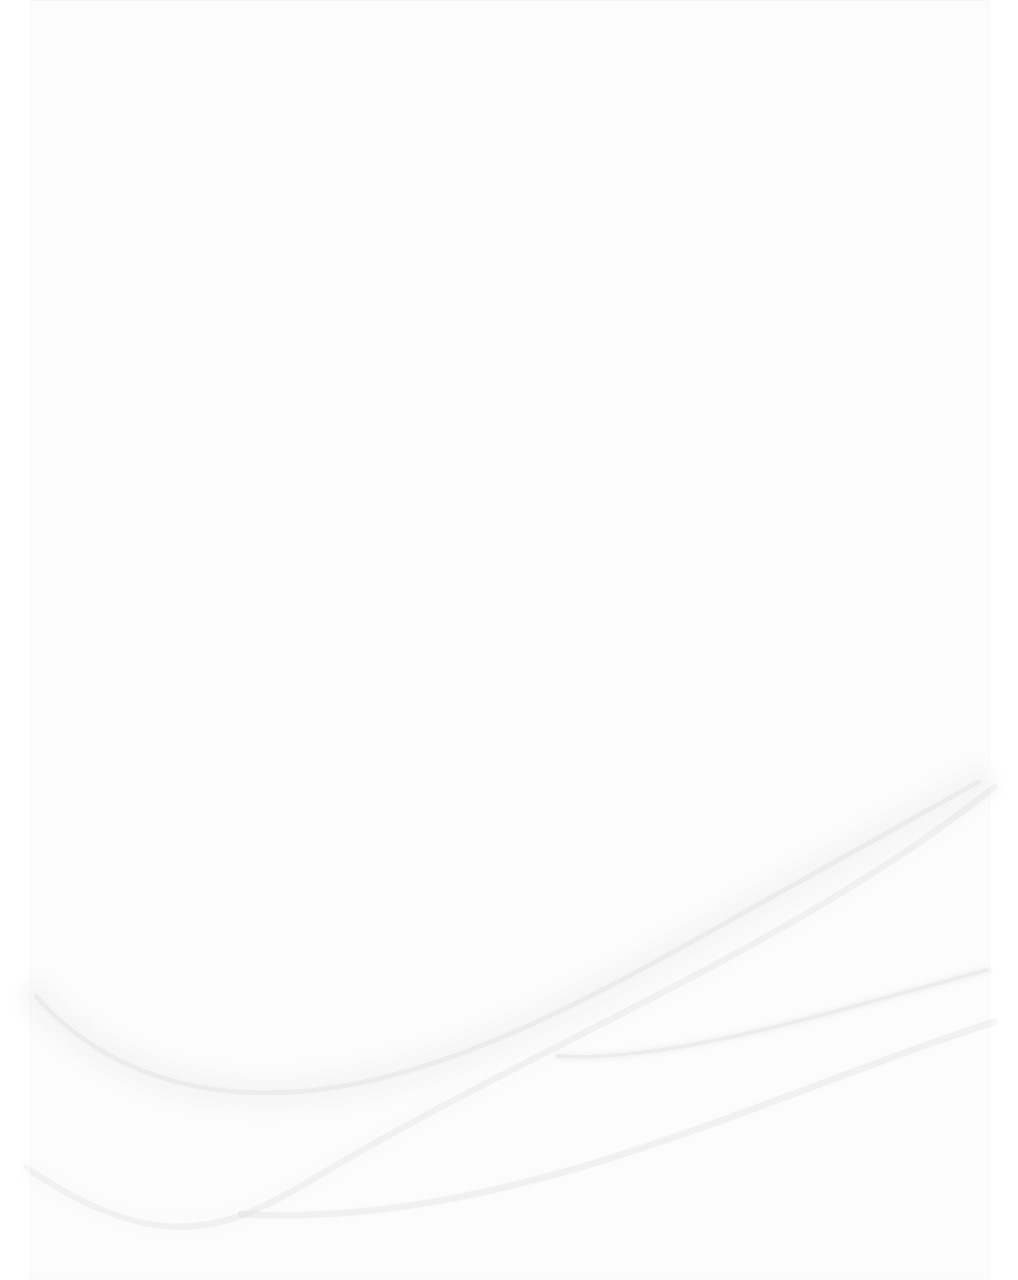
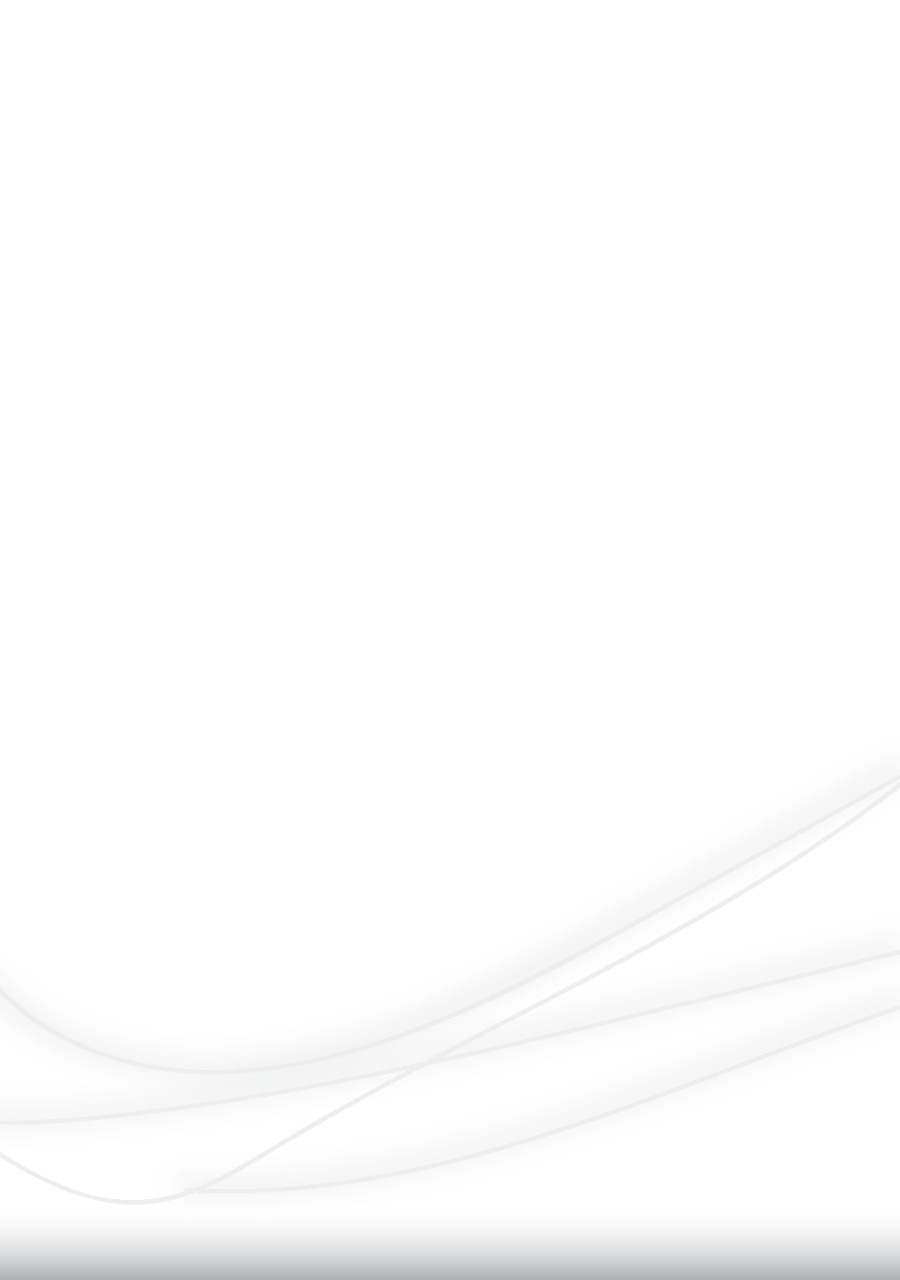
task completed

Changed region(s): [[0.0, 0.9688, 1.0, 1.0]]

diff --git a/components/Card.js b/components/Card.js
@@ -35,7 +35,7 @@ const Card = (props) => {
         <View style={styles.container_bottom_center}>
           <View style={styles.container_bottom_center_sub}>
             <View>
-              <Entypo name={"calendar"} color={'#045FB4'} size={20} />
+              <Entypo name={"calendar"} color={COLORS.cardiconcolor} size={20} />
             </View>
             <View style={styles.container_bottom_center_sub2}>
               <Text style={styles.info_title}>Date purchased</Text>
@@ -44,7 +44,7 @@ const Card = (props) => {
           </View>
           <View style={styles.container_bottom_center_sub}>
             <View>
-              <Entypo name={"ticket"} color={'#045FB4'} size={20} />
+              <Entypo name={"ticket"} color={COLORS.cardiconcolor} size={20} />
             </View>
             <View style={styles.container_bottom_center_sub2}>
               <Text style={styles.info_title}>Ticket(s) bought</Text>
@@ -71,7 +71,7 @@ const styles = StyleSheet.create({
     width: SIZES.width * 0.90,
     borderRadius: 7,
     borderWidth: 1,
-    borderColor: '#efeded',
+    borderColor: COLORS.cardbordercolor,
     marginBottom: 10,
     justifyContent: "center", // main axis
     alignItems: "center", // cross axis
@@ -82,7 +82,7 @@ const styles = StyleSheet.create({
     borderTopRightRadius: 7,
     paddingBottom: 10,
     justifyContent: "center", // main axis
-    backgroundColor: '#F8FBEF',
+    backgroundColor: COLORS.cardtopbgcolor,
   },
   container_sub: {
     flexDirection: 'row',
@@ -91,22 +91,23 @@ const styles = StyleSheet.create({
     width: SIZES.width * 0.10, borderTopLeftRadius: 7,
   },
   container_top_right: {
-    width: SIZES.width * 0.149, borderTopRightRadius: 7, alignItems: 'flex-end',
+    width: SIZES.width * 0.149, borderTopRightRadius: 7, alignItems: 'flex-end', paddingRight: 1
   },
   container_top_right_circle: {
     borderRadius: 100,
     borderTopRightRadius: 7, borderBottomRightRadius: 7,
     borderTopLeftRadius: 7, width: 45, height: 40,
-    backgroundColor: '#fff', borderColor: '#efeded',
+    backgroundColor: COLORS.cardidbgcolor,
+    borderColor: COLORS.cardidbordercolor,
     borderLeftWidth: 1, borderBottomWidth: 1,
     alignItems: 'center',
     justifyContent: 'center'
   },
   top_right_circle_text: {
-    color: 'red', fontWeight: 'bold'
+    color: COLORS.cardidtext, fontWeight: 'bold'
   },
   container_bottom_left: {
-    width: SIZES.width * 0.20, borderBottomLeftRadius: 7, alignItems: 'center',
+    width: SIZES.width * 0.20, borderBottomLeftRadius: 7, alignItems: 'center', justifyContent: 'center'
   },
   container_bottom_right: {
     width: SIZES.width * 0.298, borderBottomEndRadius: 7, alignItems: 'center',
@@ -127,20 +128,20 @@ const styles = StyleSheet.create({
   ref_text: {
     fontSize: 12,
     fontWeight: 'bold',
-    color: '#c0c0c0'
+    color: COLORS.reftext
   },
   info_title: {
-    fontSize: 7, fontWeight: '300', color: '#084B8A'
+    fontSize: 7, fontWeight: '300', color: COLORS.infotitle
   },
   info_value: {
-    fontSize: 10, fontWeight: 'bold', color: '#c0c0c0'
+    fontSize: 10, fontWeight: 'bold', color: COLORS.infovalue
   },
   ref_sub_text: {
-    color: '#DF0101',
+    color: COLORS.refsubtext1,
     fontWeight: 'bold', fontSize: 14
   },
   ref_sub_text2: {
-    color: '#113d88'
+    color: COLORS.refsubtext2,
   },
   bottom_left_image: {
     width: 50,
@@ -151,7 +152,6 @@ const styles = StyleSheet.create({
     height: 70,
     marginTop: -20,
     resizeMode: 'stretch',
-
   }
 });
 export default Card;

diff --git a/navigation/TabNavigator.js b/navigation/TabNavigator.js
@@ -2,19 +2,18 @@
 
 import React from "react";
 import { createBottomTabNavigator } from "@react-navigation/bottom-tabs";
-import { Text} from "react-native";
+import { Text, View, StyleSheet } from "react-native";
 import Home from '../screen/Home'
 import Tickets from '../screen/Tickets'
 import Entypo from 'react-native-vector-icons/Entypo';
+import { COLORS, SIZES } from '../styles/Theme'
 const Tab = createBottomTabNavigator();
-
 const BottomTabNavigator = () => {
   return (
     <Tab.Navigator
       screenOptions={({ route }) => ({
         tabBarIcon: ({ focused, color, size }) => {
           let iconName;
-
           if (route.name === 'Home') {
             iconName = 'home';
           } else if (route.name === 'Tickets') {
@@ -29,18 +28,43 @@ const BottomTabNavigator = () => {
           else if (route.name === 'Profile') {
             iconName = 'user';
           }
-
-          return <Entypo name={iconName} color={color} size={size} />;
+          return (
+            <View style={styles.icon_container}>
+              <View style={{
+                backgroundColor: focused ? '#b3adab' : "#fff",
+                padding: focused ? 5 : 0,
+                marginTop: focused ? -15 : 0,
+                paddingTop: 0,
+                borderBottomLeftRadius: 50,
+                borderBottomRightRadius: 50
+              }}>
+                <View style={{
+                  marginTop: focused ? -20 : 0,
+                  borderWidth: focused ? 0.5 : 0,
+                  backgroundColor: '#fff',
+                  borderRadius: 50,
+                  padding: 5,
+                  alignItems: 'center',
+                  borderColor: '#c0c0c0'
+                }}>
+                  <Entypo name={iconName} color={color} size={size} />
+                </View>
+              </View>
+              <Text style={styles.icon_text} numberOfLines={1}>{focused ? route.name : ""}</Text>
+            </View>
+          );
         },
-        tabBarLabel: ({ focused }) => {
-          return (<Text style={{ fontSize: 8 }}>{focused ? route.name : ""}</Text>)
-        }
       })}
       initialRouteName={'Tickets'}
       tabBarOptions={{
-        activeTintColor: '#2e2e2e',
-        inactiveTintColor: 'gray',
-        showLabel: true
+        activeTintColor: COLORS.activetintcolor,
+        inactiveTintColor: COLORS.inactivetintcolor,
+        inactiveBackgroundColor: COLORS.inactivebgcolor,
+        showLabel: false,
+        style: {
+          borderTopLeftRadius: 20,
+          borderTopRightRadius: 20,
+        }
       }}
     >
       <Tab.Screen name="Home" component={Home} />
@@ -51,5 +75,12 @@ const BottomTabNavigator = () => {
     </Tab.Navigator>
   );
 };
-
+const styles = StyleSheet.create({
+  icon_container: {
+    alignItems: 'center'
+  },
+  icon_text: {
+    fontSize: 8
+  }
+})
 export default BottomTabNavigator;

diff --git a/screen/Home.js b/screen/Home.js
@@ -1,21 +1,24 @@
 import React from 'react';
-import { Text, View, StyleSheet, Dimensions } from 'react-native';
-import Card from '../components/Card'
+import { Text, View, StyleSheet, Dimensions, ImageBackground, } from 'react-native';
 import Header from '../components/Header'
 import CommonStyle from '../styles/CommonStyle'
 import { COLORS, SIZES } from '../styles/Theme'
 const Home = (props) => {
   let headervalue = {
     title: props.route.name,
-    subtitle: "- - - - - - -"
+    subtitle: "! ! ! ! !"
   }
   return (
-    <View style={CommonStyle.v_container}>
-      <Header {...headervalue} />
-      <View style={styles.container}>
-        <Text style={styles.text}>Welcome ! ! !</Text>
+    <ImageBackground
+      source={require('../assets/backgroundimage.jpeg')}
+      style={styles.background_image}>
+      <View style={CommonStyle.v_container}>
+        <Header {...headervalue} />
+        <View style={styles.container}>
+          <Text style={styles.text}>Welcome ! ! !</Text>
+        </View>
       </View>
-    </View>
+    </ImageBackground>
   )
 };
 const styles = StyleSheet.create({
@@ -26,12 +29,16 @@ const styles = StyleSheet.create({
     paddingLeft: 12,
     justifyContent: "center", // main axis
     alignItems: "center", // cross axis
-    backgroundColor: '#FFF',
   },
   text: {
     fontSize: 18,
     fontWeight: 'bold',
     color: COLORS.title,
-  }
+  },
+  background_image: {
+    flex: 1,
+    resizeMode: "cover",
+    justifyContent: "center"
+  },
 });
 export default Home;

diff --git a/screen/Tickets.js b/screen/Tickets.js
@@ -1,5 +1,5 @@
 import React from 'react';
-import { Text, View, StyleSheet, ImageBackground, TouchableOpacity } from 'react-native';
+import { Text, View, StyleSheet, ImageBackground, TouchableOpacity, ScrollView } from 'react-native';
 import Header from '../components/Header'
 import CommonStyle from '../styles/CommonStyle'
 import { COLORS, SIZES } from '../styles/Theme'
@@ -17,7 +17,9 @@ const Tickets = (props) => {
       <View style={CommonStyle.v_container}>
         <Header {...headervalue} />
         <View style={styles.container}>
-          <TicketList />
+          <ScrollView>
+            <TicketList />
+          </ScrollView>
         </View>
         <View style={styles.button_container}>
           <TouchableOpacity style={styles.button}>
@@ -32,7 +34,7 @@ const styles = StyleSheet.create({
   container: {
     width: SIZES.width,
     flex: 1,
-    padding: SIZES.width * 0.05,
+    padding: SIZES.width * 0.04,
     justifyContent: "flex-start", // main axis
     alignItems: "center", // cross axis
   },
@@ -45,10 +47,10 @@ const styles = StyleSheet.create({
     alignItems: 'center', paddingBottom: 5
   },
   button_text: {
-    color: '#fff', fontWeight: 'bold'
+    color: COLORS.buttontext, fontWeight: 'bold'
   },
   button: {
-    backgroundColor: '#1e90ff',
+    backgroundColor: COLORS.buttonbgcolor,
     borderRadius: 20,
     padding: 10
   }

diff --git a/styles/Theme.js b/styles/Theme.js
@@ -1,8 +1,33 @@
 import {Dimensions} from 'react-native';
 const { width, height } = Dimensions.get("window");
 export let COLORS = {
-    title:"#0E2F56",
-    statusbar:"#fff"
+    title:"#002e63",
+    subtitle:"#d1d1d1",
+    statusbar:"#fff",
+    headerbgcolor:"#fdfdfd",
+    // carousel
+    carouselbordercolor:"#ebebeb",
+    carouselshadowcolor:"#fcfcfc",
+    //Navigation
+    activetintcolor:"#002e63",
+    inactivetintcolor:"gray",
+    inactivebgcolor:"#fff",
+    //card
+    cardiconcolor:"#045FB4",
+    cardbordercolor:"#efeded",
+    cardtopbgcolor:"#F8FBEF",
+    cardidbgcolor:"#fff",
+    cardidbordercolor:"#efeded",
+    cardidtext:"red",
+    reftext:"#c0c0c0",
+    infotitle:"#084B8A",
+    infovalue:"#c0c0c0",
+    refsubtext1:"#DF0101",
+    refsubtext2:"#113d88",
+    //Button
+    buttonbgcolor:"#1e90ff",
+    buttontext:"#fff",
+
 }
 export let SIZES={
 width,

diff --git a/components/Header.js b/components/Header.js
@@ -16,7 +16,8 @@ const styles = StyleSheet.create({
         padding: 8,
         paddingLeft: 12,
         justifyContent: "flex-start", // main axis
-        backgroundColor: '#fff',
+        backgroundColor: COLORS.headerbgcolor,
+        paddingBottom: 12
     },
     title: {
         fontSize: 18,
@@ -27,7 +28,7 @@ const styles = StyleSheet.create({
     subtitle: {
         fontSize: 14,
         fontWeight: '700',
-        color: '#d1d1d1',
+        color: COLORS.subtitle,
         paddingLeft: 5
     }
 

diff --git a/Carousel/styles.ts b/Carousel/styles.ts
@@ -1,12 +1,12 @@
 import { StyleSheet } from 'react-native'
-
+import { COLORS, SIZES } from '../styles/Theme'
 export const styles = StyleSheet.create({
   container: {
     width: '100%',
-    borderColor: '#ebebeb',
+    borderColor: COLORS.carouselbordercolor,
     borderWidth: 0,
     borderRadius: 8,
-    shadowColor: '#fcfcfc',
+    shadowColor: COLORS.carouselshadowcolor,
     shadowOpacity: 1,
     marginTop: 1,
     shadowOffset: {

diff --git a/README.md b/README.md
@@ -1,0 +1,6 @@
+
+<h1 align="center">
+   Bottom Menu Navigation React Native Animation 
+</h1>
+## Project setup
+npm install 
